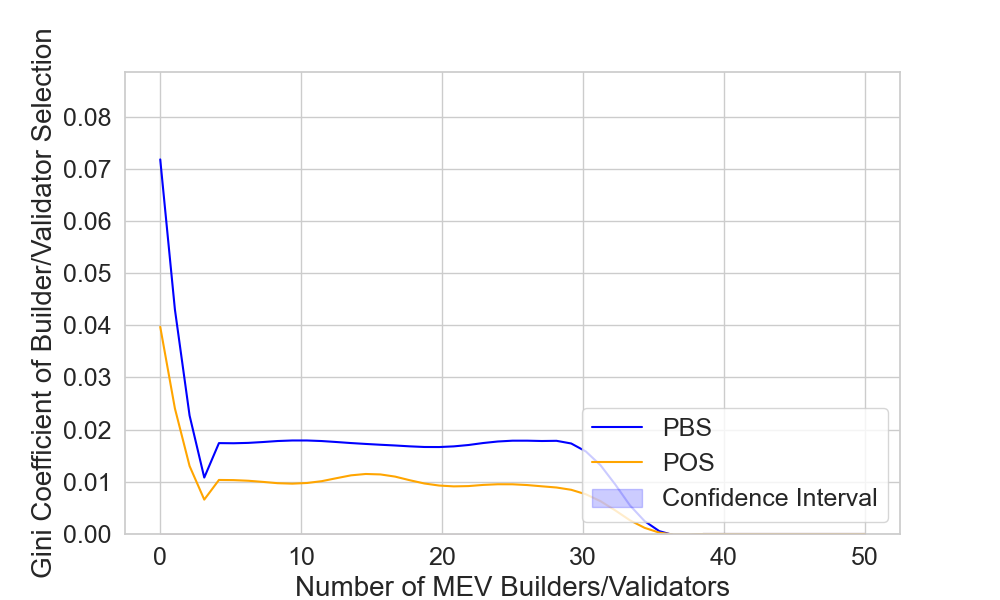
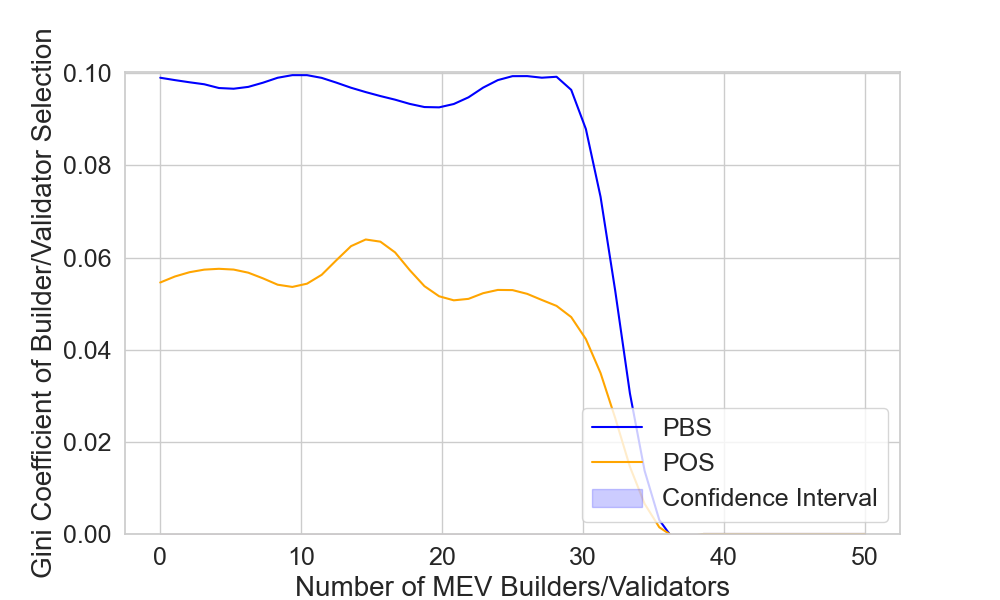
fix 50 percent

diff --git a/scripts/100_runs_vary_user.py b/scripts/100_runs_vary_user.py
@@ -19,7 +19,7 @@ NUM_VALIDATORS = 50
 BLOCK_CAPACITY = 50
 NUM_BLOCKS = 50
 MEV_BUILDER_COUNTS = [0, 1, 5, 10, 15, 20, 25, 30, 35, 40, 45, 50]
-NUM_RUNS = 50
+NUM_RUNS = 10
 
 SAMPLE_GAS_FEES = np.array(SAMPLE_GAS_FEES)
 MEV_POTENTIALS = np.array(MEV_POTENTIALS)
@@ -508,13 +508,13 @@ if __name__ == "__main__":
             for mev_count in MEV_BUILDER_COUNTS:
                 futures.append(executor.submit(run_simulation, run_id, mev_count, is_attack_50_percent=True))
 
-        for run_id in range(1, NUM_RUNS + 1):
-            for mev_count in MEV_BUILDER_COUNTS:
-                futures.append(executor.submit(run_simulation, run_id, mev_count, is_attack_none=True))
+        # for run_id in range(1, NUM_RUNS + 1):
+        #     for mev_count in MEV_BUILDER_COUNTS:
+        #         futures.append(executor.submit(run_simulation, run_id, mev_count, is_attack_none=True))
 
-        for run_id in range(1, NUM_RUNS + 1):
-            for mev_count in MEV_BUILDER_COUNTS:
-                futures.append(executor.submit(run_simulation, run_id, mev_count, is_attack_all=True))
+        # for run_id in range(1, NUM_RUNS + 1):
+        #     for mev_count in MEV_BUILDER_COUNTS:
+        #         futures.append(executor.submit(run_simulation, run_id, mev_count, is_attack_all=True))
 
         for future in as_completed(futures):
             try:

diff --git a/plots/new/vary_user_content_gini.py b/plots/new/vary_user_content_gini.py
@@ -28,7 +28,7 @@ def load_block_data(data_dir, mev_counts):
     for mev_count in mev_counts:
         for system in ['pbs', 'pos']:
             selection_counts = []
-            for run_id in range(1, 51):
+            for run_id in range(1, 10):
                 file_path = os.path.join(data_dir, f'run{run_id}', f'mev{mev_count}', system, f'block_data_{system}.csv')
                 if os.path.exists(file_path):
                     df = pd.read_csv(file_path)
